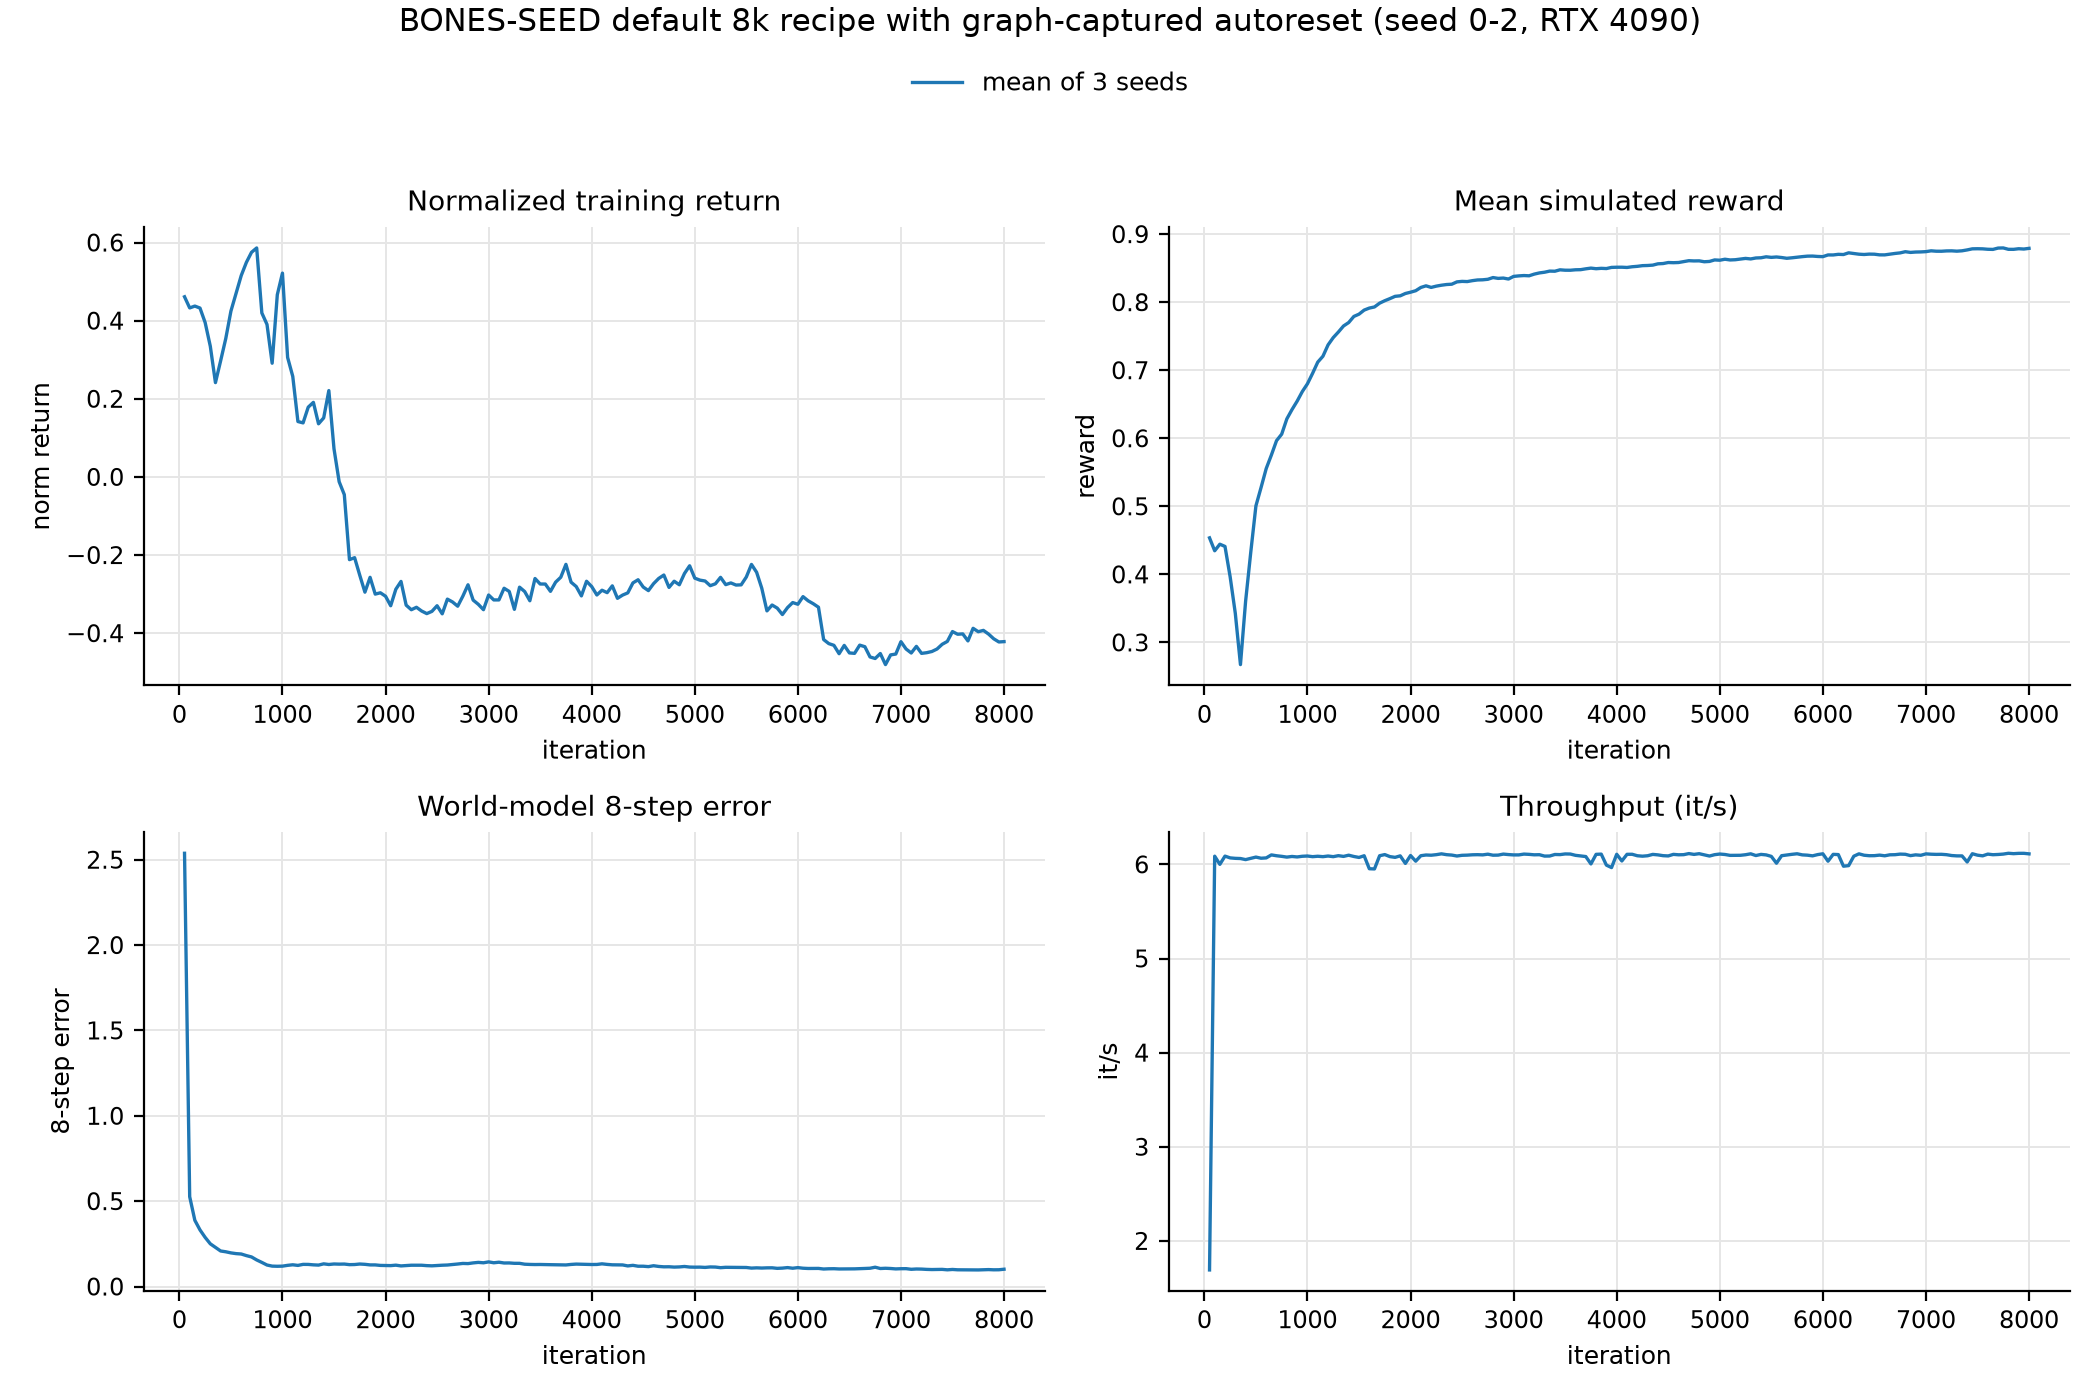
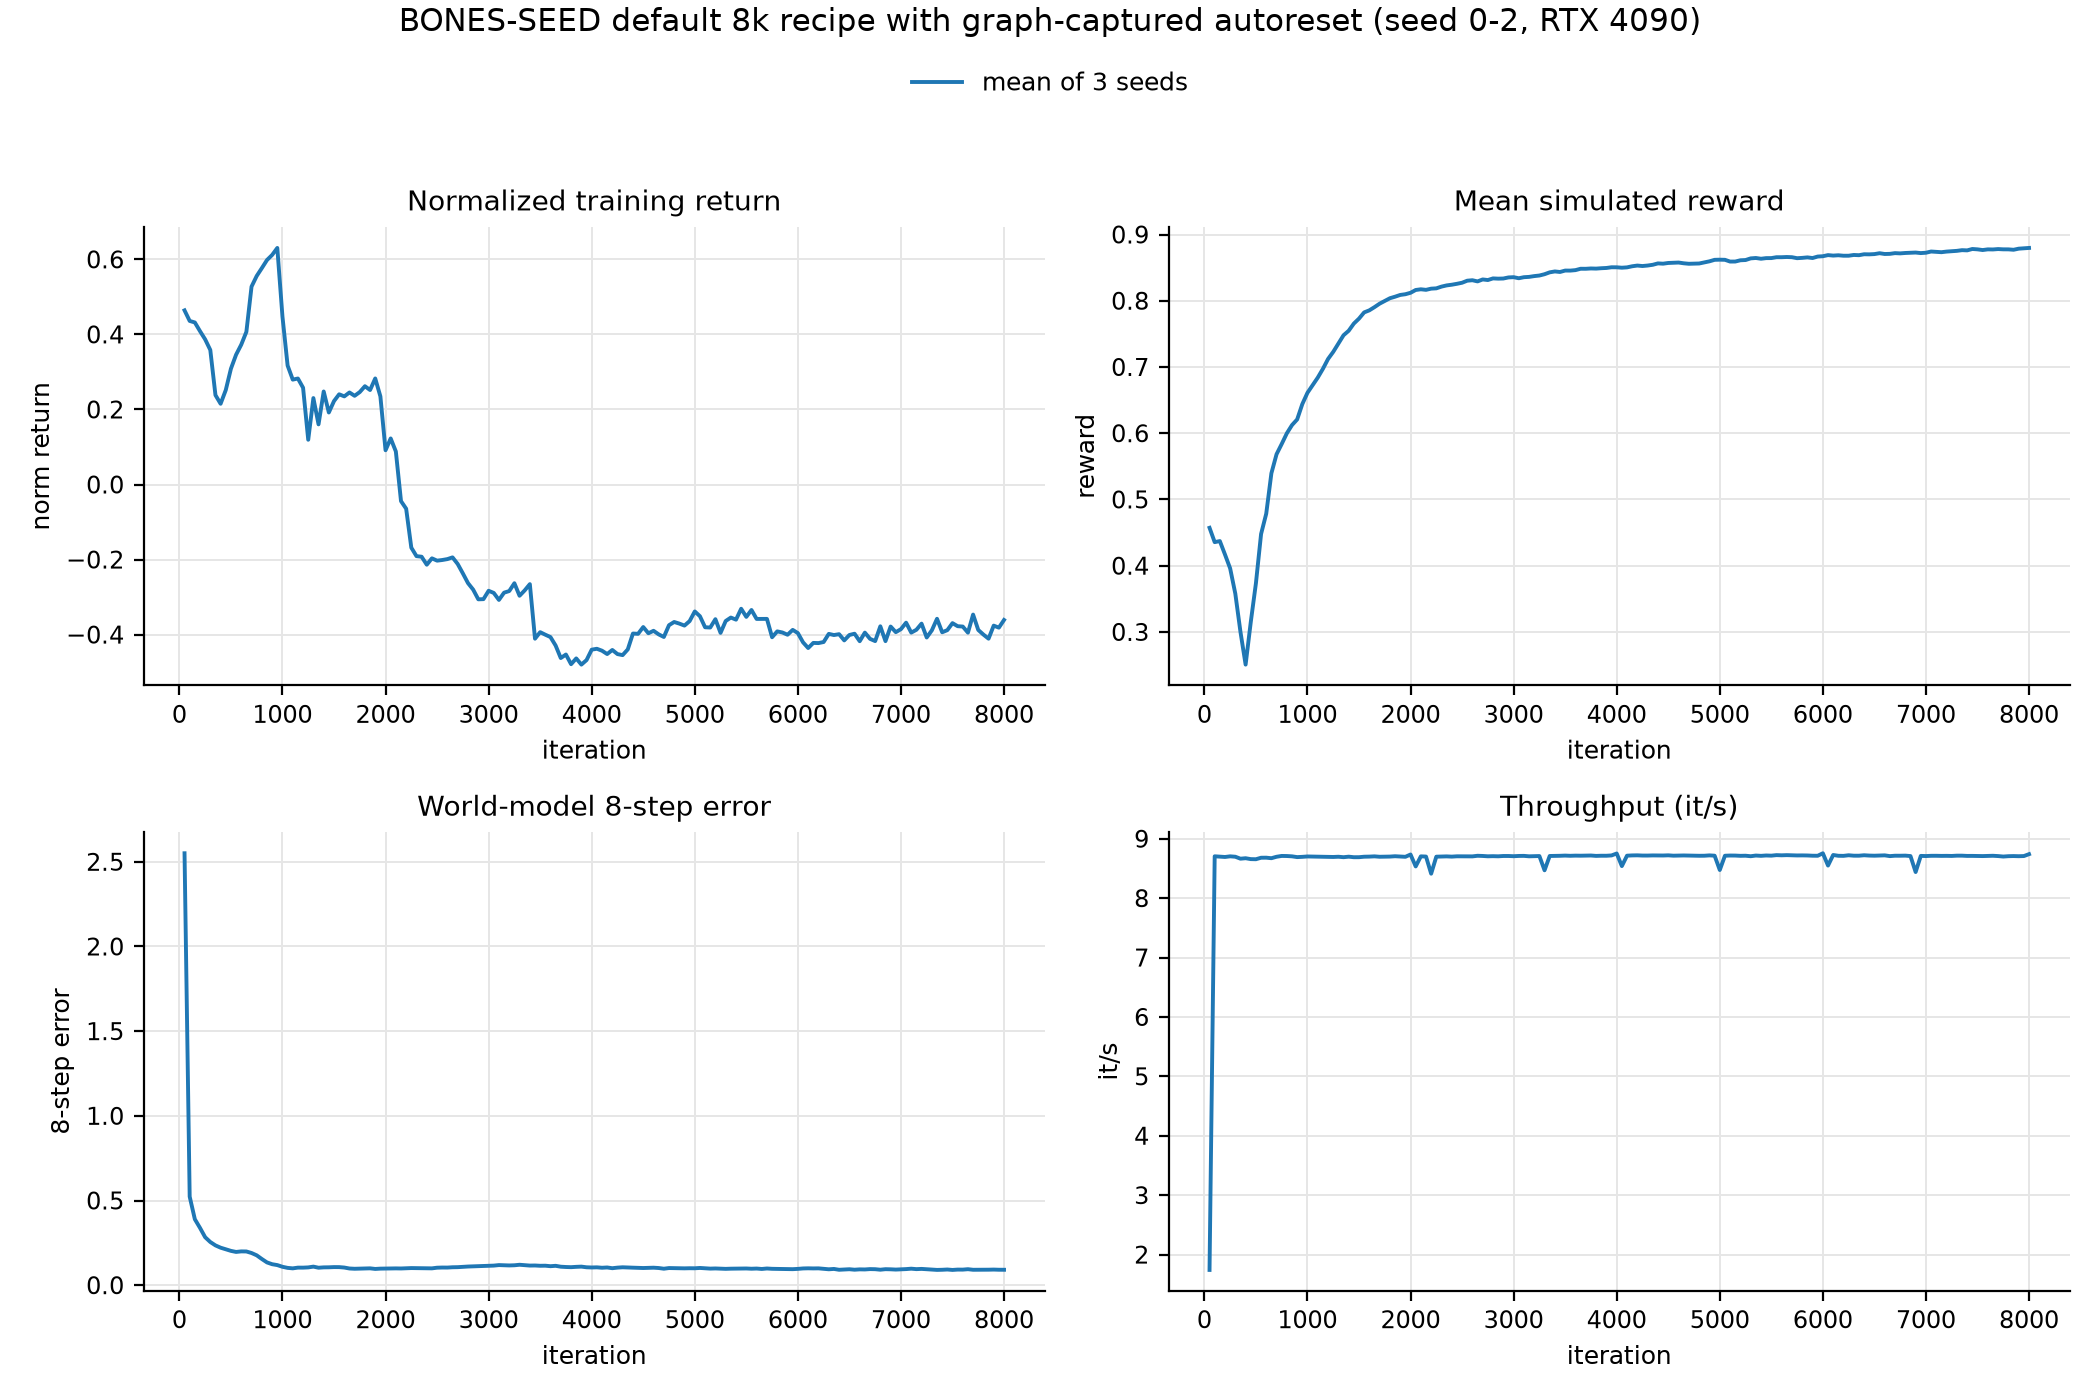
docs: refresh the RTX 4090 results on main (15.3 min, 8.7 it/s)
Re-measured the default recipe on the merged main (unilab 1.6.4, after
#68-#72): three seeds, one run per RTX 4090. Training time is reported
with one-off compilation removed, so it does not depend on the compile
cache (the first-iteration torch.compile stall took 6 s with a warm
cache and 91-94 s cold). Steady-state learner throughput rose from about
6.2 to 8.7 it/s; evaluation quality is unchanged (0.9314 norm return,
226 failed clips, mean of 3 seeds).

The previous unilab 1.6.0 numbers move to docs/results_history.md, and
the UniSuperMimic rows of the comparison figure use the same metric
(recomputed from the training logs of #71).

diff --git a/README.md b/README.md
@@ -8,7 +8,7 @@
   <a href="https://arxiv.org/abs/2610.28480"><img src="https://img.shields.io/badge/paper-arXiv--2610.28480-red" alt="Paper"></a>
   <a href="https://pypi.org/project/unilab/"><img src="https://img.shields.io/pypi/v/unilab" alt="UniLab PyPI"></a>
   <a href="#results"><img src="https://img.shields.io/badge/BONES--SEED-129%2C487%20clips-blue" alt="BONES-SEED: 129,487 clips"></a>
-  <a href="#results"><img src="https://img.shields.io/badge/single%20GPU-%7E22%20min-green" alt="Single GPU: about 22 minutes"></a>
+  <a href="#results"><img src="https://img.shields.io/badge/single%20GPU-%7E15%20min-green" alt="Single GPU: about 15 minutes"></a>
   <a href="LICENSE"><img src="https://img.shields.io/badge/license-Apache--2.0-blue" alt="Apache-2.0 License"></a>
 </p>
 
@@ -17,8 +17,8 @@ UniSuperMimic is an independent downstream reproduction of [SuperMimic](https://
 ### Highlights
 
 - **BONES-SEED at scale**: download, convert, filter, pack, train on, and deterministically evaluate a 129,487-clip / 47.3M-frame motion library from one repository.
-- **Graph-captured fixed-shape autoreset**: unilab 1.6.0 pins body-packet storage across resets and publishes caller-owned step outputs, so the reset segment runs as a replayed CUDA graph — the default 8,000-iteration BONES-SEED recipe trains in **about 22 minutes on one RTX 4090** (mean of 3 seeds: 0.9322 full-library norm return, 99.82% clip success rate).
-- **Single-GPU efficiency**: mjwarp, MuJoCo, and Motrix all support an efficient one-GPU workflow; learner throughput reaches ~6 it/s with the graph-captured autoreset chain.
+- **Graph-captured fixed-shape autoreset**: unilab 1.6.4 pins body-packet storage across resets and publishes caller-owned step outputs, so the reset segment runs as a replayed CUDA graph — the default 8,000-iteration BONES-SEED recipe trains in **about 15 minutes on one RTX 4090**, one-off compilation excluded (mean of 3 seeds: 0.9314 full-library norm return, 99.83% clip success rate).
+- **Single-GPU efficiency**: mjwarp, MuJoCo, and Motrix all support an efficient one-GPU workflow; learner throughput reaches ~8.7 it/s with the graph-captured autoreset chain.
 - **Three simulation backends**: switch between mjwarp, MuJoCo, and Motrix without changing the policy or dataset configuration.
 
 <p align="center">
@@ -31,7 +31,7 @@ UniSuperMimic is an independent downstream reproduction of [SuperMimic](https://
   <img src="docs/assets/time_comparison.png" alt="Training wall-clock time versus reported tracking score across SuperMimic projects" width="95%">
 </p>
 
-<p align="center"><em>Training wall-clock time to the reported result, with each project's reported tracking score (log-scale time axis). The UniSuperMimic rows run the same default recipe on different hardware and simulation backends (single seed; the RTX 4090 row is a 3-seed mean); MuJoCo and Motrix simulate on the CPU with the learner on the GPU. Historical runs and ablations are archived in <a href="docs/results_history.md">docs/results_history.md</a>.</em></p>
+<p align="center"><em>Training wall-clock time to the reported result, with each project's reported tracking score (log-scale time axis). The UniSuperMimic rows run the same default recipe on different hardware and simulation backends (single seed; the RTX 4090 row is a 3-seed mean); MuJoCo and Motrix simulate on the CPU with the learner on the GPU; UniSuperMimic training times exclude one-off compilation. Historical runs and ablations are archived in <a href="docs/results_history.md">docs/results_history.md</a>.</em></p>
 
 Paper: [*SuperMimic: Scaling Humanoid Whole-Body Control with One Differentiable World Model*](https://arxiv.org/abs/2610.28480), Qiayuan Liao et al. The implementation references `supermimic_vibed` and depends on PyPI `unilab`.
 
@@ -263,15 +263,15 @@ By default, the reference root XY is aligned with the policy to highlight whole-
 
 Previous result tables and ablations (LAFAN1, the 12000-iteration BONES-SEED run, EMA/no-sync, Muon, and the pre-graph default recipe) are archived in [docs/results_history.md](docs/results_history.md).
 
-The default recipe trains with unilab 1.6.0's fixed-shape autoreset chain enabled through the single `env.autoreset_cuda_graph` switch: masked autoreset, persistent step buffers, deferred finite validation, and reset-segment CUDA graph capture on top of the task-side fixed-address state-publication carriers. Deterministic evaluation keeps the selected-row reset lifecycle, so the evaluation contract is unchanged.
+The default recipe trains with unilab 1.6.4's fixed-shape autoreset chain enabled through the single `env.autoreset_cuda_graph` switch: masked autoreset, persistent step buffers, deferred finite validation, and reset-segment CUDA graph capture on top of the task-side fixed-address state-publication carriers. Deterministic evaluation keeps the selected-row reset lifecycle, so the evaluation contract is unchanged.
 
-Three seeds (mjwarp, 4096 environments, one RTX 4090, the complete 129,487-clip library); deterministic full-library evaluation with 16,384 environments from frame zero without noise. A failed clip is one whose rollout hard-terminates (falls) before the clip ends — the SuperMimic-family protocol. Reported numbers are the mean of the three seeds:
+Three seeds (mjwarp, 4096 environments, one RTX 4090 per seed, the complete 129,487-clip library); deterministic full-library evaluation with 16,384 environments from frame zero without noise. A failed clip is one whose rollout hard-terminates (falls) before the clip ends — the SuperMimic-family protocol. Reported numbers are the mean of the three seeds. Training time is the learner wall time of the 8,000 iterations with one-off compilation removed: the first-iteration `torch.compile` stall (6–94 s in these runs, depending on the compile cache) is subtracted, so the number does not depend on the cache state.
 
-| policy (8000 iterations) | norm return | frame-weighted | failed clips | success rate | learner wall |
+| policy (8000 iterations) | norm return | frame-weighted | failed clips | success rate | training time (compile excluded) |
 |---|---:|---:|---:|---:|---:|
-| default recipe with `env.autoreset_cuda_graph` | **0.9322** | **0.9281** | **228** | **99.82%** | **0.372 h (22.3 min)** |
+| default recipe with `env.autoreset_cuda_graph` | **0.9314** | **0.9271** | **226** | **99.83%** | **15.3 min** |
 
-Steady-state learner throughput is ~6.2 it/s; the 8,000-iteration run fits in about 22 minutes on a single RTX 4090.
+Steady-state learner throughput is ~8.7 it/s (iterations 1000–8000); the 8,000 iterations take about 15 minutes on a single RTX 4090.
 
 ![Training curves, mean of 3 seeds](docs/assets/graph8k_curves.png)
 

diff --git a/docs/results_history.md b/docs/results_history.md
@@ -71,4 +71,14 @@ A seed-0 comparison on one RTX 6000D (mjwarp, 4096 environments, the complete 12
 
 The new defaults already pass the previous 8000-iteration return at iteration 4000 (0.9122, 391 failed clips). Attribution from existing runs and logs, without additional training: Muon plus the structured world model reproduce +0.044 training reward over Adam plus the unstructured model at 8000 iterations; the 1024-wide structured world model matches the 2048-wide one at that horizon (training reward 0.891 vs 0.890) and, together with the halved update batches, raises throughput from 2.85 to 4.09 it/s; the budget-aligned schedule anneals the policy by iteration 8000 (lr 1.09e-4 versus 3.99e-4 unannealed), and two 150k runs kept on the old 250k decay peaked near 0.91 around iteration 60000 before degrading to 0.25-0.64, so the shorter decay also removes a long-run instability. The recovered failures spread across motion families (jump 24, crawl 22, sit 15, dance 9, stand 9, push 8, kick 8); flips and rolls remain the hardest residual failures.
 
+## Graph-captured default recipe on unilab 1.6.0 (8000 iterations)
+
+The first results with `env.autoreset_cuda_graph` enabled, measured on unilab 1.6.0 before the learner launch-overhead reductions (#68–#70). Three seeds (mjwarp, 4096 environments, one RTX 4090 per seed, the complete 129,487-clip library); deterministic full-library evaluation with 16,384 environments from frame zero without noise. Training time is the learner wall time with the one-off compilation still included.
+
+| policy (8000 iterations) | norm return | frame-weighted | failed clips | success rate | learner wall |
+|---|---:|---:|---:|---:|---:|
+| default recipe with `env.autoreset_cuda_graph` | 0.9322 | 0.9281 | 228 | 99.82% | 0.372 h (22.3 min) |
+
+Steady-state learner throughput was ~6.2 it/s.
+
 [`perf/unilab-115-masked-autoreset-compile`]: https://github.com/Motphys/Uni-SuperMimic/pull/61
